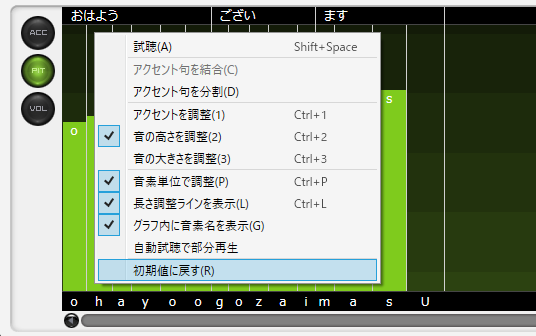
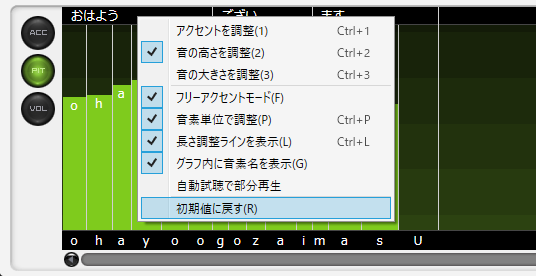
update 2024-01-08

diff --git a/docs/faq/CeVIO AI ユーザーズガイド ┃ よくある質問／既知の問題.md b/docs/faq/CeVIO AI ユーザーズガイド ┃ よくある質問／既知の問題.md
@@ -48,7 +48,9 @@
 
   
 
- CPUが一部PentiumやCeleron、古いCore iのPCでは、以下のボイスの旧バージョンがエラーになる場合があります。
+ CPUが一部PentiumやCeleron、古いCore iのPCでは、以下のボイスの
+ **旧バージョンがエラー** 
+ になる場合があります。
    
 
 [結月ゆかり 麗](../home/yukari_1_1_0) 
@@ -119,7 +121,10 @@
  A： 「CeVIO AI」スターター製品には、エディタとボイスの2種類のシリアルナンバーが含まれています。
    
 
- 最初の認証画面では「エディタ」、次の認証画面では「ボイス」のシリアルナンバーを入力してください。逆に入力すると認証できません。
+**最初の認証画面では「エディタ」** 
+ 、
+ **次の認証画面では「ボイス」** 
+ の順にシリアルナンバーを入力してください。逆に入力すると認証できません。
    
 
 
@@ -152,10 +157,14 @@
 -------------------------------------
 
 
- A： 新しいMS IMEは、日本語入力オンのとき文字入力になります。MS IMEの「設定」→「全般」→「以前のバージョンのMicrosoft IMEを使う」をオンにすると、日本語入力オンでもスペースキーで再生/停止でき、トラック名の日本語入力もできるようになります。
+ A： 新しいMS IMEは、日本語入力オンのとき文字入力になります。MS IMEの「設定」→「全般」→「
+ **以前のバージョンのMicrosoft IMEを使う** 
+ 」をオンにすると、日本語入力オンでもスペースキーで再生/停止でき、トラック名の日本語入力もできるようになります。
    
 
- Google IMEは、日本語入力オンのとき([Ctrl]キーとの組み合わせ以外)文字入力になるため、日本語入力オフにしてスペースキーを押すか、トークの場合は[F5]キーで再生/停止してください。
+ Google IMEは、日本語入力オンのとき([Ctrl]キーとの組み合わせ以外)文字入力になるため、日本語入力オフにしてスペースキーを押すか、
+ **トークの場合は[F5]** 
+ キーで再生/停止してください。
    
 
 
@@ -183,25 +192,25 @@
    
 
 
- Q： 「セリフのテキスト読み込み」が失敗する。
--------------------------
+ Q： セリフのテキスト読み込み、MIDIの読み込みで文字化けする。
+-----------------------------------
 
 
- A： オプションの「トーク設定」の「テキストファイルの文字コード」の「読み込み」で、読み込むファイルの文字コードを指定してください。
+ A： オプションの「トーク設定」の「テキストファイルの文字コード」の「読み込み」に、読み込むテキストファイルの文字コードを指定してください。メモ帳の標準やGoogleスプレッドシートは「UTF-8」です。エクセルのCSVは通常「Shift-JIS」で、「CSV UTF-8」も選べます。
    
 
- メモ帳やGoogleスプレッドシートは「UTF-8」です。エクセルのCSVは通常「Shift-JIS」で、「CSV UTF-8」も選べます。
+ MIDIの歌詞が「ANSI (Shift-JIS)」で文字化けした場合は「UTF-8」をお試しください。
    
 
 
- Q： 書き出したテキストファイルや字幕ファイルが外部ソフトで文字化けする。
----------------------------------------
+ Q： 書き出したテキストファイルや字幕ファイル、MIDIファイルが外部ソフトで文字化けする。
+------------------------------------------------
 
 
- A： オプションの「トーク設定」の「テキストファイルの文字コード」の「書き出し」に、お使いの外部ソフトが対応する文字コードを指定してください。
+ A： オプションの「トーク設定」の「テキストファイルの文字コード」の「書き出し」に、お使いの外部ソフトが対応する文字コードを指定してください。※例えば「VideoStudio Pro 2019(または2018)」は「UTF-8 (BOM付き)」に対応。
    
 
- ※例えば「VideoStudio Pro 2019(または2018)」は「UTF-8 (BOM付き)」に対応。
+ MIDIの歌詞の文字コードは、オプションの「ソング設定」の「MIDIファイルの文字コード」で指定できます。
    
 
 

diff --git a/docs/talktrack/CeVIO AI ユーザーズガイド ┃ 音素グラフ（日本語）.md b/docs/talktrack/CeVIO AI ユーザーズガイド ┃ 音素グラフ（日本語）.md
@@ -70,6 +70,23 @@
 
 ![](../../image/tk05_acc02.png)
 
+  
+
+**フリーアクセントモード**
+  
+
+ アクセント調整時にアクセント型を適用しないようにできます。
+   
+
+ 「トーク」メニューの「音素グラフ」や右クリックメニューの「フリーアクセントモード」でオン／オフできます。
+   
+
+ 通常はオフにして、必要なときオンにしてお使いください。初期設定はオフです。
+   
+
+
+![](../../image/V8.7_free_accent_mode.png)
+
 
  音の高さ／大きさ／長さの調整
 ----------------
@@ -94,16 +111,13 @@
 **音の高さ（大きさ）を調整**
   
 
- 棒グラフ上でマウスを上下にドラッグ（マウスの左ボタンを押したまま移動）すると、マウスの動きに合わせてグラフが変化します。左右にドラッグすることもでき、[Shift]キーを押しなら右（または左）にドラッグすると、グラフを水平に揃えることができます。
+ 棒グラフ上でマウスを上下にドラッグ（マウスの左ボタンを押したまま移動）して音の高さ（大きさ）を調整します。左右にドラッグすることもでき、[Shift]キーを押しなら右（または左）にドラッグするとグラフを水平に揃えることができます。
    
 
 
 ![](../../image/tk05_08_w.png)
 
- グラフにマウスカーソルを重ねて、マウスホイール上下で調整することもできます。
-   
-
- ※拡大表示中は、[Alt]キーを押しながらマウスホイール上下で調整可能。
+ 垂直拡大していないときは、マウスホイール上下で調整することもできます。
    
 
  ※高さは100Cent、大きさは1dBずつ変化します。
@@ -111,7 +125,11 @@
 
   
 
- 上部の文字エリアの単語から上下にドラッグすると、音の高さ（大きさ）を単語単位で調整できます。
+ 上部の文字エリアの単語から上下にドラッグすると、音の高さ（大きさ）を
+ 
+ 単語単位
+ 
+ で調整できます。
    
 
 
@@ -134,7 +152,11 @@
 
 ![](../../image/tk05_10.png)
 
- 上部の文字エリアの単語を左右にドラッグして、単語単位で長さを調整することもできます。
+ 上部の文字エリアの単語を左右にドラッグして、
+ 
+ 単語単位
+ 
+ で長さを調整することもできます。
    
 
  上部と下部の文字エリアでは、マウスホイール上下で長さを調整することもできます。
@@ -223,13 +245,16 @@
 
   
 
-**表示のスクロール**
+**音素グラフのスクロール**
   
 
- 音素グラフはスクロールバー以外にも、マウス中央ボタンを押しながらドラッグしてスクロールすることができます。
+ アクセント調整画面ではマウスホイール上下で水平スクロール可能です。他の調整画面も、[Shift]キーを押しながらマウスホイール上下で水平スクロール、拡大中はマウスホイール上下で垂直スクロール可能です。
    
 
- [Shift]キーを押しながらマウスホイール上下で水平スクロール、拡大中はマウスホイール上下で垂直スクロールも可能です。
+ マウスカーソルがスクロールバー上のとき、マウスホイール上下でスクロールバーの水平／垂直に従ってスクロールします。
+   
+
+ マウス中央ボタンを押しながら音素グラフをドラッグして上下左右にスクロールすることもできます。
    
 
 

diff --git a/docs/shortcutkey/CeVIO AI ユーザーズガイド ┃ ショートカットキー.md b/docs/shortcutkey/CeVIO AI ユーザーズガイド ┃ ショートカットキー.md
@@ -46,6 +46,14 @@
 >  名前を付けて保存。
 >    
 > 
+>   
+> 
+> **F1**
+>   
+> 
+>  ヘルプ（ユーザーズガイド）を表示。
+>    
+> 
 > 
 
 
@@ -972,10 +980,10 @@
  ショートカットキーが効かないとき
  
 
- MS IMEは、Windows 10 バージョン2004以降では、日本語入力オンのとき文字入力になり、ショートカットキーが機能しません。MS IMEの「設定」→「全般」→「以前のバージョンのMicrosoft IMEを使う」をオンにすると、日本語入力オンでもショートカットキーが機能するようになります。
+ 新しいMS IMEは、日本語入力オンのとき文字入力になり、ショートカットキーが機能しません。MS IMEの「設定」→「全般」→「以前のバージョンのMicrosoft IMEを使う」をオンにすると、日本語入力オンでもショートカットキーが機能するようになります。
    
 
- Google IMEは、日本語入力オンのとき([Ctrl]キーとの組み合わせ以外)文字入力になるため、日本語入力オフにしてスペースキーを押すか、画面上の再生ボタンなどを使ってください。
+ Google IMEは、日本語入力オンのとき([Ctrl]キーとの組み合わせ以外)文字入力になるため、日本語入力オフにしてスペースキーを押すか、トークの場合は[F5]キーで再生/停止してください。
  
 
 

diff --git a/docs/songtrack/CeVIO AI ユーザーズガイド ┃ 歌声の調整③（声質）.md b/docs/songtrack/CeVIO AI ユーザーズガイド ┃ 歌声の調整③（声質）.md
@@ -33,7 +33,7 @@
 **ハスキー**
   
 
- 上げるほど、かすれ気味な声になります。調整画面には影響しません。
+ 上げるほど、かすれ気味な声になります。
    
 
   
@@ -118,6 +118,36 @@
 
 
 ![](../../image/st05_07_w.png)
+
+
+ 色の設定
+------
+
+
+ タイミングやピッチ等のラインの色、音声波形の色と不透明度を見やすく変えられます。
+   
+
+ 右クリックメニューの「表示」やオプションの「ソング設定」から呼び出せます。
+   
+
+  
+
+
+![](../../image/V8.7_color_settings.png)
+
+  
+
+**アンチエイリアス**
+  
+
+ ピアノロールにアンチエイリアスを適用して表示をなめらかにします。初期設定はオフでシャープな表示です。
+   
+
+ ※Windowsのディスプレイ拡大率100%設定時に表示。拡大率100%以外では常にオン。
+   
+
+
+![](../../image/V8.6_anti_aliasing.png)
 
 
 

diff --git a/docs/songtrack/CeVIO AI ユーザーズガイド ┃ 歌声の調整②（調整画面）.md b/docs/songtrack/CeVIO AI ユーザーズガイド ┃ 歌声の調整②（調整画面）.md
@@ -44,6 +44,23 @@
  オプションの「ソング設定」の「調整画面の数値表示」で、パラメータにマウスカーソルを重ねたときの数値表示の形式が選べます。初期設定は現在値のみの表示ですが、「現在値＋差分」や「差分のみ」、非表示にすることもできます。
    
 
+  
+
+**音声波形の表示**
+  
+
+ ボリューム調整画面で「声の元になる声帯振動の大きさ」を調整して、音声波形で聴感音量を確認することができます。
+   
+
+ 「ソング」メニューの「その他の表示」や、右クリックメニューの「表示」からオン／オフ可能です。
+   
+
+ ※表示中はCPUやメモリの負荷が高まるため、動作が重い場合やバッテリー駆動中などはオフに。
+   
+
+
+![](../../image/st05_waveform.png)
+
 
  タイミング調整
 ---------

diff --git a/docs/option/CeVIO AI ユーザーズガイド ┃ オプション.md b/docs/option/CeVIO AI ユーザーズガイド ┃ オプション.md
@@ -150,10 +150,13 @@
 >  書き出すWAVファイルのサンプリングレートとビット深度を指定できます。どちらも高いほど音質が向上します。
 >    
 > 
+>  DAW等に読み込む場合、DAW側プロジェクトのサンプリングレートとビット深度を反映しておくと音質が劣化しません。
+>    
+> 
 >  ※サンプリングレート96kHzの音質は48kHzと変わりありません。
 >    
 > 
->  ※現在、ミックスダウンWAV書き出しは、48kHz 16bit固定です。
+>  ※ミックスダウンWAV書き出しは、48kHz 16bit固定です。
 >    
 > 
 >   
